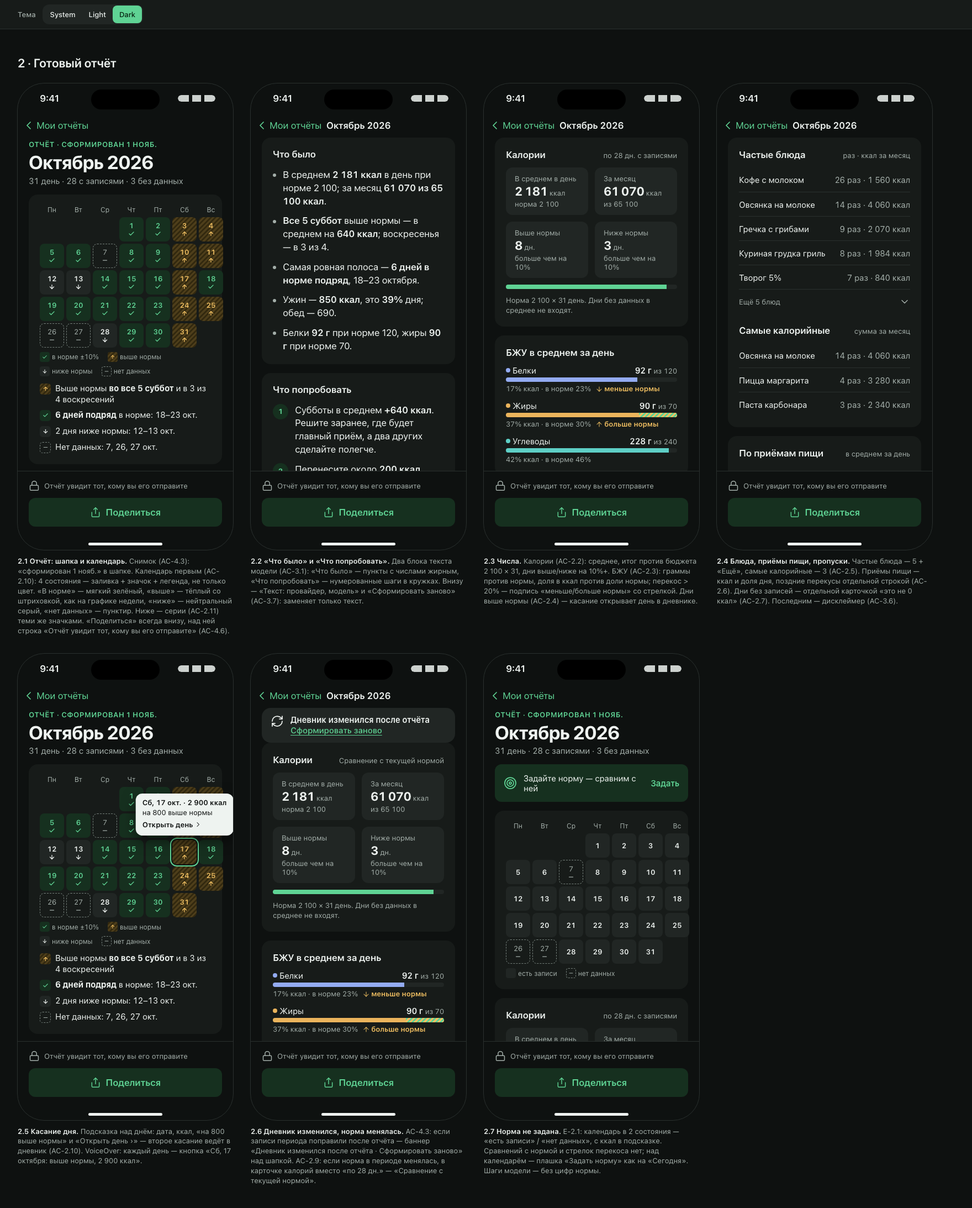
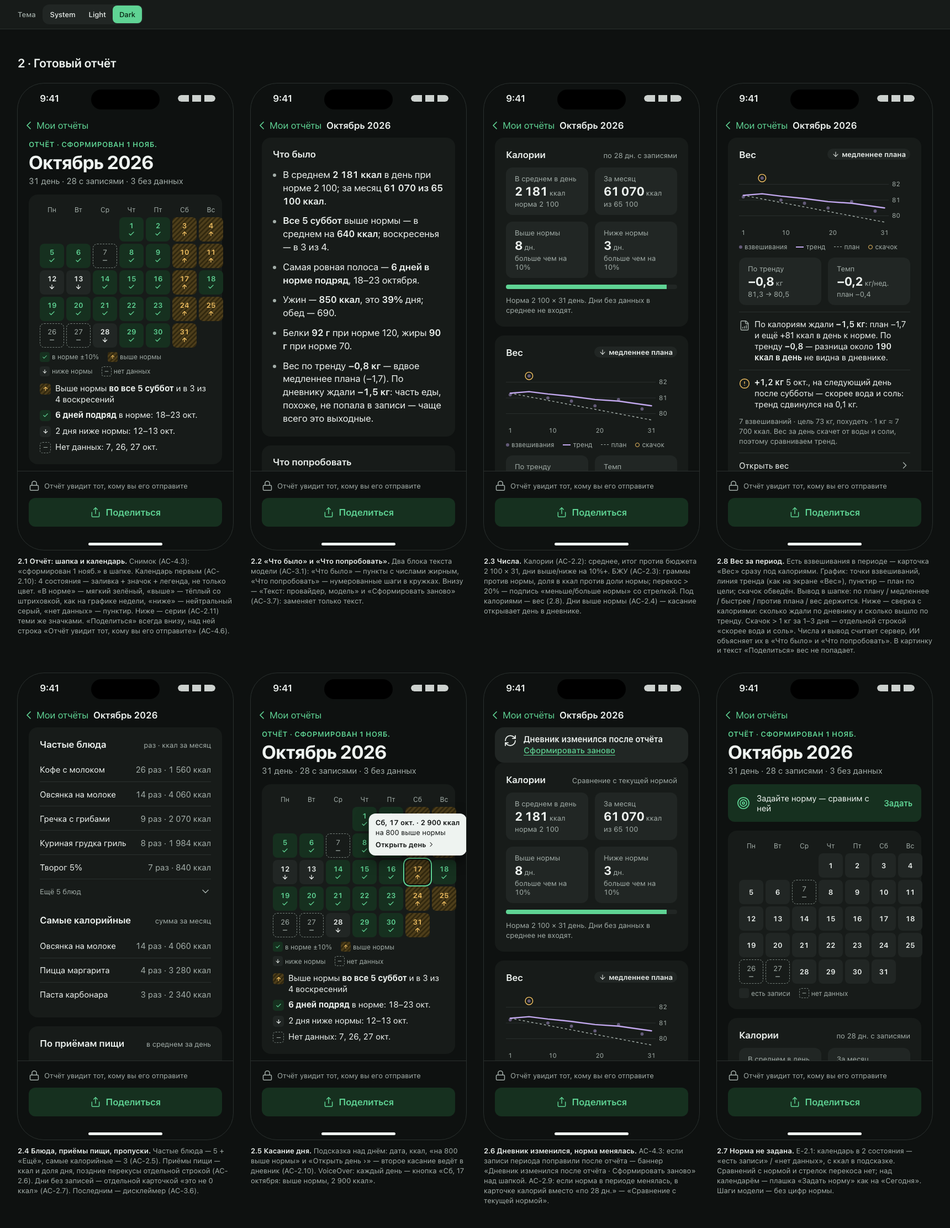
OCT-153 Weight in the period report: trend vs goal plan, calorie check, jump note, verdicts and empty states

diff --git a/docs/design/oct-153/prototype.html b/docs/design/oct-153/prototype.html
@@ -576,6 +576,33 @@ body{padding:var(--space-10) var(--space-8)}
 .share-row{display:flex;align-items:center;gap:var(--space-2);font-size:var(--text-footnote-size);color:var(--color-text-secondary)}
 .skew{display:inline-flex;align-items:center;gap:2px;font-size:var(--text-footnote-size);color:var(--color-warning);font-weight:600}
 .skew .icon{width:14px;height:14px}
+/* weight block (tokens from OCT-189 weight screen) */
+.verdict{display:inline-flex;align-items:center;gap:var(--space-1);font-size:var(--text-footnote-size);font-weight:600;padding:2px var(--space-2);border-radius:var(--radius-full);white-space:nowrap}
+.verdict .icon{width:14px;height:14px}
+.verdict.ok{background:var(--color-accent-soft);color:var(--color-accent)}
+.verdict.slow{background:var(--color-notice);color:var(--color-text)}
+.verdict.warn{background:var(--color-warning-soft);color:var(--color-warning)}
+.wchart{width:100%;height:auto;display:block;overflow:visible}
+.wchart .pt{fill:var(--color-weight);opacity:var(--weight-point-opacity)}
+.wchart .tr{fill:none;stroke:var(--color-weight);stroke-width:var(--weight-trend-width);stroke-linecap:round;stroke-linejoin:round}
+.wchart .plan{fill:none;stroke:var(--color-text-secondary);stroke-width:1.5;stroke-dasharray:4 4}
+.wchart .grid{stroke:var(--color-separator);stroke-width:1}
+.wchart .jump{fill:none;stroke:var(--color-warning);stroke-width:1.5}
+.wchart text{font-size:var(--text-caption-size);fill:var(--color-text-secondary);font-variant-numeric:tabular-nums}
+.wlegend{display:flex;flex-wrap:wrap;gap:var(--space-1) var(--space-4);font-size:var(--text-caption-size);color:var(--color-text-secondary)}
+.wlegend span{display:inline-flex;align-items:center;gap:var(--space-1)}
+.wlegend i{display:inline-block;width:14px;height:0;border-top:var(--weight-trend-width) solid var(--color-weight)}
+.wlegend i.dot{width:6px;height:6px;border:0;border-radius:50%;background:var(--color-weight);opacity:var(--weight-point-opacity)}
+.wlegend i.plan{border-top:1.5px dashed var(--color-text-secondary)}
+.wlegend i.jump{width:8px;height:8px;border:1.5px solid var(--color-warning);border-radius:50%}
+.wnote{display:flex;gap:var(--space-2);align-items:flex-start;font-size:var(--text-subhead-size);line-height:var(--text-subhead-lh);padding-top:var(--space-3);border-top:1px solid var(--color-separator)}
+.wnote .icon{flex:none;margin-top:2px;color:var(--color-text-secondary)}
+.wnote.jmp .icon{color:var(--color-warning)}
+.wnote b{font-weight:600;font-variant-numeric:tabular-nums}
+.sr-only{position:absolute;width:1px;height:1px;overflow:hidden;clip:rect(0 0 0 0);white-space:nowrap}
+.wstates{display:grid;grid-template-columns:repeat(auto-fill,minmax(300px,1fr));gap:var(--space-4);max-width:1000px}
+.wstates .card{background:var(--color-surface)}
+.wst{display:flex;flex-direction:column;gap:var(--space-2);min-width:0}
 .list-row{display:flex;justify-content:space-between;align-items:center;gap:var(--space-3);min-height:var(--tap-min);border-top:1px solid var(--color-separator);font-size:var(--text-subhead-size);font-variant-numeric:tabular-nums}
 .list-row:first-of-type{border-top:0}
 .list-row .r{display:flex;align-items:center;gap:var(--space-2);white-space:nowrap}
@@ -736,6 +763,11 @@ body{padding:var(--space-10) var(--space-8)}
 <section class="doc-section" id="report">
   <h2 class="doc-h2">2 · Готовый отчёт</h2>
   <div class="row" id="report-row"></div>
+</section>
+<section class="doc-section" id="weight">
+  <h2 class="doc-h2">2W · Вес: все выводы и пустые случаи</h2>
+  <p class="t-sub muted" style="max-width:70ch;margin-bottom:var(--space-4)">План — темп из цели профиля. По плану — 75–125% плана; медленнее — меньше 75% в ту же сторону; быстрее — больше 125% (больше 1% веса в неделю — предупреждение); против плана — тренд в обратную сторону больше 0,1 кг/нед. Цель «держать вес» — держится, если тренд в пределах ±0,5 кг за месяц. Тренд — с 3 взвешиваний на отрезке от 7 дней.</p>
+  <div class="wstates" id="weight-row"></div>
 </section>
 <section class="doc-section" id="list">
   <h2 class="doc-h2">3 · «Мои отчёты»</h2>
@@ -951,8 +983,8 @@ const head = (kicker, title, meta) => `<div class="rep-head">${kicker?`<span cla
 const card = (inner, label='') => `<section class="card"${label?` aria-label="${label}"`:''}>${inner}</section>`;
 
 /* AI block — before generation */
-const SENT = `<div class="sent">${I('lock','sm')}<span>Провайдеру уйдут итоги по дням и названия частых блюд — без фото, имени и email.</span></div>`;
-const genCard = ({profile=true, note=''}={}) => `<section class="ai-card" aria-label="Разбор от ИИ"><div class="ai-h">${I('spark')}Что было и что попробовать</div><p class="t-sub muted">ИИ напишет короткий разбор и 2–5 шагов на следующий период. Числа считает приложение — модель их не меняет.</p>${SENT}<div class="gen-row" role="switch" aria-checked="${profile}"><span class="grow">Учитывать профиль <span class="muted t-sub">(возраст, пол, рост, вес)</span></span><span class="switch ${profile?'on':''}"></span></div>${note}</section>`;
+const SENT = `<div class="sent">${I('lock','sm')}<span>Провайдеру уйдут итоги по дням, названия частых блюд и вес по тренду — без фото, имени и email.</span></div>`;
+const genCard = ({profile=true, note=''}={}) => `<section class="ai-card" aria-label="Разбор от ИИ"><div class="ai-h">${I('spark')}Что было и что попробовать</div><p class="t-sub muted">ИИ напишет короткий разбор и 2–5 шагов на следующий период. Числа считает приложение — модель их не меняет.</p>${SENT}<div class="gen-row" role="switch" aria-checked="${profile}"><span class="grow">Учитывать профиль <span class="muted t-sub">(возраст, пол, рост, вес и цель)</span></span><span class="switch ${profile?'on':''}"></span></div>${note}</section>`;
 const genBusy = `<section class="ai-card" aria-label="Разбор от ИИ" aria-busy="true"><div class="gen-progress" role="status"><span class="spinner"></span>Пишем разбор…</div><div class="skel-lines"><div class="skel" style="width:92%"></div><div class="skel" style="width:78%"></div><div class="skel" style="width:85%"></div><div class="skel" style="width:60%"></div></div><p class="t-foot muted">Обычно до минуты. Можно уйти с экрана — отчёт появится в «Моих отчётах».</p></section>`;
 const genMsg = (ic, cls, title, body) => `<section class="ai-card" aria-label="Разбор от ИИ"><div class="ai-h">${I('spark')}Что было и что попробовать</div><div class="banner ${cls}" role="status">${I(ic)}<div><div class="b-title">${title}</div>${body}</div></div></section>`;
 
@@ -962,12 +994,14 @@ const WHAT = `<section class="ai-card" aria-label="Что было"><div class="
 <li><span><b>Все 5 суббот</b> выше нормы — в среднем на <b>640 ккал</b>; воскресенья — в 3 из 4.</span></li>
 <li><span>Самая ровная полоса — <b>6 дней в норме подряд</b>, 18–23 октября.</span></li>
 <li><span>Ужин — <b>850 ккал</b>, это <b>39%</b> дня; обед — 690.</span></li>
-<li><span>Белки <b>92 г</b> при норме 120, жиры <b>90 г</b> при норме 70.</span></li></ul></section>`;
+<li><span>Белки <b>92 г</b> при норме 120, жиры <b>90 г</b> при норме 70.</span></li>
+<li><span>Вес по тренду <b>−0,8 кг</b> — вдвое медленнее плана (−1,7). По дневнику ждали <b>−1,5 кг</b>: часть еды, похоже, не попала в записи — чаще всего это выходные.</span></li></ul></section>`;
 const TRY = (by=true) => `<section class="ai-card" aria-label="Что попробовать"><div class="ai-h">Что попробовать</div><ol class="ai-steps">
 <li><span>Субботы в среднем <b>+640 ккал</b>. Решите заранее, где будет главный приём, а два других сделайте полегче.</span></li>
 <li><span>Перенесите около <b>200 ккал</b> ужина в обед — например, гарнир: ужин станет ~650 ккал.</span></li>
 <li><span>Добавьте <b>25–30 г белка</b> в день: творог к завтраку или куриная грудка к обеду.</span></li>
-<li><span>Жиры выше нормы на <b>20 г</b> в день — посмотрите соусы и масло в частых блюдах.</span></li></ol>
+<li><span>Жиры выше нормы на <b>20 г</b> в день — посмотрите соусы и масло в частых блюдах.</span></li>
+<li><span>В субботу и воскресенье записывайте всё, включая перекусы, и взвешивайтесь <b>2–3 раза в неделю</b> утром — тогда станет видно, где теряется разница.</span></li></ol>
 ${by?`<div class="ai-by"><span>Текст: Ollama, llama3.1 · 1 нояб.</span><span class="act" role="button">${I('refresh','sm')}Сформировать заново</span></div>`:''}</section>`;
 
 /* numbers (server) */
@@ -982,6 +1016,41 @@ const frow2 = (n, c, k) => `<div class="list-row"><span>${n}</span><span class="
 const FREQ = card(`<div class="sum-line"><span class="t-headline">Частые блюда</span><span class="avg-note">раз · ккал за месяц</span></div><div>${frow2('Кофе с молоком',26,1560)}${frow2('Овсянка на молоке',14,4060)}${frow2('Гречка с грибами',9,2070)}${frow2('Куриная грудка гриль',8,1984)}${frow2('Творог 5%',7,840)}<div class="unch" role="button" aria-expanded="false">Ещё 5 блюд${I('chev-d','sm')}</div></div><div class="sum-line" style="margin-top:var(--space-2)"><span class="t-headline">Самые калорийные</span><span class="avg-note">сумма за месяц</span></div><div>${frow2('Овсянка на молоке',14,4060)}${frow2('Пицца маргарита',4,3280)}${frow2('Паста карбонара',3,2340)}</div>`,'Частые блюда');
 const MEALS = card(`<div class="sum-line"><span class="t-headline">По приёмам пищи</span><span class="avg-note">в среднем за день</span></div><div>${[['Завтрак',430,20],['Обед',690,32],['Ужин',850,39],['Перекус',211,10]].map(([n,k,p])=>`<div class="list-row"><span>${n}</span><span class="num"><b>${k}</b> <span class="muted">ккал · ${p}%</span></span></div>`).join('')}</div><span class="t-foot muted">Больше всего ккал — с 19 до 22 ч. Поздние перекусы (00:00–03:59): 4 раза, в среднем 320 ккал.</span>`,'По приёмам пищи');
 const GAPS = card(`<div class="sum-line"><span class="t-headline">Нет данных: 3 дн.</span></div><span class="t-sub muted">7, 26, 27 окт. — без записей. Это не 0 ккал: в средние эти дни не входят.</span>`,'Нет данных');
+/* weight (server): trend = EMA from OCT-209; plan = pace of the goal (OCT-28 norm agent) */
+const WPTS = [[1,81.2],[5,82.4],[9,81.0],[14,80.8],[19,80.5],[24,80.9],[29,80.3]];
+const WTR = [[1,81.3],[5,81.4],[9,81.25],[14,81.1],[19,80.9],[24,80.8],[31,80.5]];
+const wchart = ({pts=WPTS, tr=WTR, plan=[81.3,79.6], jump=5, lo=79.4, hi=82.8, days=31}={}) => {
+  const W=320, H=128, R=40, x=d=>8+(d-1)*(W-R-16)/(days-1), y=v=>8+(hi-v)*(H-28)/(hi-lo);
+  const ticks=[82,81,80].filter(v=>v>lo&&v<hi);
+  const grid=ticks.map(v=>`<line class="grid" x1="0" x2="${W-R}" y1="${y(v)}" y2="${y(v)}"/><text x="${W-R+6}" y="${y(v)+4}">${String(v)}</text>`).join('');
+  const dl=[1,10,20,days].map(d=>`<text x="${x(d)}" y="${H-2}" text-anchor="middle">${d}</text>`).join('');
+  const pl=plan?`<line class="plan" x1="${x(1)}" y1="${y(plan[0])}" x2="${x(days)}" y2="${y(plan[1])}"/>`:'';
+  const t=tr?`<polyline class="tr" points="${tr.map(([d,v])=>`${x(d)},${y(v)}`).join(' ')}"/>`:'';
+  const p=pts.map(([d,v])=>`<circle class="pt" cx="${x(d)}" cy="${y(v)}" r="3"/>`).join('');
+  const j=jump?(()=>{const [d,v]=pts.find(q=>q[0]===jump);return `<circle class="jump" cx="${x(d)}" cy="${y(v)}" r="7"/>`;})():'';
+  return `<svg class="wchart" viewBox="0 0 ${W} ${H}" aria-hidden="true">${grid}${pl}${t}${p}${j}${dl}</svg>`;
+};
+const VERD = {ok:['ok','check','по плану'], slow:['slow','down','медленнее плана'], fast:['warn','alert','быстрее плана'], against:['warn','up','против плана'], hold:['ok','check','вес держится']};
+const verdict = k => { const [c,i,t]=VERD[k]; return `<span class="verdict ${c}">${I(i)}${t}</span>`; };
+const wleg = (plan=true, jump=true) => `<div class="wlegend"><span><i class="dot"></i>взвешивания</span><span><i></i>тренд</span>${plan?'<span><i class="plan"></i>план</span>':''}${jump?'<span><i class="jump"></i>скачок</span>':''}</div>`;
+const WEIGHT = card(`<div class="sum-line"><span class="t-headline">Вес</span>${verdict('slow')}</div>
+<p class="sr-only">График веса за октябрь: 7 взвешиваний, по тренду с 81,3 до 80,5 кг, минус 0,8. План минус 1,7 кг. Медленнее плана.</p>
+${wchart()}${wleg()}
+<div class="stat-grid">${stat('По тренду','−0,8','кг','81,3 → 80,5')}${stat('Темп','−0,2','кг/нед.','план −0,4')}</div>
+<div class="wnote">${I('report','sm')}<span>По калориям ждали <b>−1,5 кг</b>: план −1,7 и ещё +81 ккал в день к норме. По тренду <b>−0,8</b> — разница около <b>190 ккал в день</b> не видна в дневнике.</span></div>
+<div class="wnote jmp">${I('alert','sm')}<span><b>+1,2 кг</b> 5 окт., на следующий день после субботы — скорее вода и соль: тренд сдвинулся на 0,1 кг.</span></div>
+<span class="t-foot muted">7 взвешиваний · цель 73 кг, похудеть · 1 кг ≈ 7 700 ккал. Вес за день скачет от воды и соли, поэтому сравниваем тренд.</span>
+<div class="list-row" role="button"><span>Открыть вес</span><span class="r">${I('chev-r','sm')}</span></div>`,'Вес');
+const wstate = (title, k, body, extra='') => card(`<div class="sum-line"><span class="t-headline">Вес</span>${k?verdict(k):''}</div>${body}${extra}`,title);
+const WSTATES = [
+  ['По плану','ok',`${wchart({pts:[[1,81.2],[8,80.6],[15,80.4],[22,79.9],[29,79.6]],tr:[[1,81.3],[8,80.9],[15,80.5],[22,80.1],[31,79.6]],jump:0,lo:79,hi:82})}<div class="stat-grid">${stat('По тренду','−1,7','кг','81,3 → 79,6')}${stat('Темп','−0,4','кг/нед.','план −0,4')}</div><span class="t-foot muted">«По плану» — темп от 75 до 125% плана.</span>`],
+  ['Быстрее плана','fast',`<div class="stat-grid">${stat('По тренду','−4,1','кг','81,3 → 77,2')}${stat('Темп','−0,9','кг/нед.','план −0,4')}</div><div class="wnote jmp">${I('alert','sm')}<span>Больше 1% веса в неделю — вместе с жиром уходят мышцы. Проверьте, все ли приёмы пищи в дневнике.</span></div>`],
+  ['Против плана','against',`<div class="stat-grid">${stat('По тренду','+0,9','кг','81,3 → 82,2')}${stat('Темп','+0,2','кг/нед.','план −0,4')}</div><div class="wnote">${I('report','sm')}<span>В среднем <b>+260 ккал</b> в день к норме — это около <b>+1,0 кг</b> за месяц, вес идёт за калориями.</span></div>`],
+  ['Цель — держать вес','hold',`<div class="stat-grid">${stat('По тренду','+0,2','кг','74,1 → 74,3')}${stat('Темп','+0,05','кг/нед.','держать ±0,1')}</div><span class="t-foot muted">«Держится» — тренд в пределах ±0,5 кг за месяц.</span>`],
+  ['Цель не задана','',`<div class="stat-grid">${stat('По тренду','−0,8','кг','81,3 → 80,5')}${stat('Темп','−0,2','кг/нед.')}</div><div class="invite">${I('target')}<span>Задайте цель — сравним с планом</span><span class="go">Задать</span></div>`],
+  ['Мало взвешиваний','',`<p class="t-sub">2 взвешивания: 81,2 кг 3 окт. и 80,6 кг 24 окт.</p><span class="t-foot muted">Тренд и вывод — с 3 взвешиваний, между первым и последним хотя бы 7 дней.</span>`,`<button class="btn btn-tonal btn-sm">${I('plus','sm')}Записать вес</button>`],
+  ['Нет взвешиваний','',`<p class="t-sub muted">За октябрь взвешиваний нет — без них не понять, работает ли план.</p>`,`<button class="btn btn-tonal btn-sm">${I('plus','sm')}Записать вес</button>`],
+].map(([t,k,b,e=''])=>`<figure class="wst">${wstate(t,k,b,e)}<figcaption class="t-foot muted"><b>${t}.</b></figcaption></figure>`).join('');
 const DISC = `<p class="disclaimer">${I('alert','sm')}Не медицинский совет. Нормы ориентировочные.</p>`;
 
 /* sticky bottom bars */
@@ -998,7 +1067,8 @@ function report({part=0, top='', extra='', kcalNote='', sel=-1, tip='', nav=null
   const parts = [
     `${head('Отчёт · сформирован 1 нояб.','Октябрь 2026','31 день · 28 с записями · 3 без данных')}<div class="pad stack">${card(calendar(OCT,{sel,tip})+SERIES_OCT,'Календарь периода')}${WHAT}</div>`,
     `<div class="pad stack">${WHAT}${TRY()}</div>`,
-    `<div class="pad stack">${KCAL(kcalNote)}${MACROS}${ABOVE}</div>`,
+    `<div class="pad stack">${KCAL(kcalNote)}${WEIGHT}${MACROS}${ABOVE}</div>`,
+    `<div class="pad stack">${WEIGHT}</div>`,
     `<div class="pad stack">${FREQ}${MEALS}${GAPS}${DISC}</div>`,
   ];
   return `${navbar}${top}<div class="content rep">${parts[part]}</div>${barShare}${extra}`;
@@ -1049,12 +1119,15 @@ const OCT_PLAIN = calendar(OCT,{norm:0});
 document.getElementById('report-row').innerHTML = [
   frame('2.1','Отчёт: шапка и календарь','Снимок (AC-4.3): «сформирован 1 нояб.» в шапке. Календарь первым (AC-2.10): 4 состояния — заливка + значок + легенда, не только цвет. «В норме» — мягкий зелёный, «выше» — тёплый со штриховкой, как на графике недели, «ниже» — нейтральный серый, «нет данных» — пунктир. Ниже — серии (AC-2.11) теми же значками. «Поделиться» всегда внизу, над ней строка «Отчёт увидит тот, кому вы его отправите» (AC-4.6).', report()),
   frame('2.2','«Что было» и «Что попробовать»','Два блока текста модели (AC-3.1): «Что было» — пункты с числами жирным, «Что попробовать» — нумерованные шаги в кружках. Внизу — «Текст: провайдер, модель» и «Сформировать заново» (AC-3.7): заменяет только текст.', report({part:1})),
-  frame('2.3','Числа','Калории (AC-2.2): среднее, итог против бюджета 2 100 × 31, дни выше/ниже на 10%+. БЖУ (AC-2.3): граммы против нормы, доля в ккал против доли нормы; перекос > 20% — подпись «меньше/больше нормы» со стрелкой. Дни выше нормы (AC-2.4) — касание открывает день в дневнике.', report({part:2})),
-  frame('2.4','Блюда, приёмы пищи, пропуски','Частые блюда — 5 + «Ещё», самые калорийные — 3 (AC-2.5). Приёмы пищи — ккал и доля дня, поздние перекусы отдельной строкой (AC-2.6). Дни без записей — отдельной карточкой «это не 0 ккал» (AC-2.7). Последним — дисклеймер (AC-3.6).', report({part:3})),
+  frame('2.3','Числа','Калории (AC-2.2): среднее, итог против бюджета 2 100 × 31, дни выше/ниже на 10%+. БЖУ (AC-2.3): граммы против нормы, доля в ккал против доли нормы; перекос > 20% — подпись «меньше/больше нормы» со стрелкой. Под калориями — вес (2.8). Дни выше нормы (AC-2.4) — касание открывает день в дневнике.', report({part:2})),
+  frame('2.8','Вес за период','Есть взвешивания в периоде — карточка «Вес» сразу под калориями. График: точки взвешиваний, линия тренда (как на экране «Вес»), пунктир — план по цели; скачок обведён. Вывод в шапке: по плану / медленнее / быстрее / против плана / вес держится. Ниже — сверка с калориями: сколько ждали по дневнику и сколько вышло по тренду. Скачок > 1 кг за 1–3 дня — отдельной строкой «скорее вода и соль». Числа и вывод считает сервер, ИИ объясняет их в «Что было» и «Что попробовать». В картинку и текст «Поделиться» вес не попадает.', report({part:3})),
+  frame('2.4','Блюда, приёмы пищи, пропуски','Частые блюда — 5 + «Ещё», самые калорийные — 3 (AC-2.5). Приёмы пищи — ккал и доля дня, поздние перекусы отдельной строкой (AC-2.6). Дни без записей — отдельной карточкой «это не 0 ккал» (AC-2.7). Последним — дисклеймер (AC-3.6).', report({part:4})),
   frame('2.5','Касание дня','Подсказка над днём: дата, ккал, «на 800 выше нормы» и «Открыть день ›» — второе касание ведёт в дневник (AC-2.10). VoiceOver: каждый день — кнопка «Сб, 17 октября: выше нормы, 2 900 ккал».', report({sel:16, tip:dayTip})),
   frame('2.6','Дневник изменился, норма менялась','AC-4.3: если записи периода поправили после отчёта — баннер «Дневник изменился после отчёта · Сформировать заново» над шапкой. AC-2.9: если норма в периоде менялась, в карточке калорий вместо «по 28 дн.» — «Сравнение с текущей нормой».', report({part:2, top:staleBanner, kcalNote:'Сравнение с текущей нормой'})),
   frame('2.7','Норма не задана','E-2.1: календарь в 2 состояния — «есть записи» / «нет данных», с ккал в подсказке. Сравнений с нормой и стрелок перекоса нет; над календарём — плашка «Задать норму» как на «Сегодня». Шаги модели — без цифр нормы.', `${repNav('', back('Мои отчёты'))}<div class="content rep">${head('Отчёт · сформирован 1 нояб.','Октябрь 2026','31 день · 28 с записями · 3 без данных')}<div class="pad stack"><div class="invite">${I('target')}<span>Задайте норму — сравним с ней</span><span class="go">Задать</span></div>${card(OCT_PLAIN,'Календарь периода')}${card(`<div class="sum-line"><span class="t-headline">Калории</span><span class="avg-note">по 28 дн. с записями</span></div><div class="stat-grid">${stat('В среднем в день','2 181','ккал')}${stat('За месяц','61 070','ккал')}</div>`)}</div></div>${barShare}`),
 ].join('');
+
+document.getElementById('weight-row').innerHTML = WSTATES;
 
 /* 3 · my reports */
 const repCell = (t, sub, {busy=false, badge=''}={}) => `<div class="cell ic rep" role="button"><span class="lead-ic round">${busy?'<span class="spinner" style="width:16px;height:16px"></span>':I('report','sm')}</span><span class="main"><span>${t}</span><span class="sub">${sub}</span>${badge?`<span>${badge}</span>`:''}</span>${I('chev-r','sm').replace('class="icon','class="icon chev')}</div>`;

diff --git a/docs/design/oct-13/tokens.css b/docs/design/oct-13/tokens.css
@@ -49,6 +49,19 @@
   --switch-height: 31px;
   --chat-avatar-size: 28px;     /* OCT-22: agent mark in chat, step numbers in «Как считается» */
   --chat-bubble-max-width: 80%; /* OCT-22: user message width in chat */
+  --dish-illo-size: 40px;       /* OCT-33: dish illustration in edit rows (hit area stays 44) */
+  --illo-pick-size: 64px;       /* OCT-33: tile in the illustration picker grid */
+  --water-figure-size: 120px;   /* OCT-147: water mascot / bar column on the Water card (phone) */
+  --drink-tile-size: 56px;      /* OCT-147: round drink tile in the drinks row (hit area = tile + label) */
+  --duration-fill: 1200ms;      /* OCT-147: water level rise after a tap (≤ 1.5 s, product AC-2.2) */
+  --dose-mark-size: 28px;       /* OCT-144: intake ring / check on a supplement row (hit area = whole row) */
+  --weight-spark-width: 128px;  /* OCT-189: mini chart on the Weight card (Today) */
+  --weight-spark-height: 56px;
+  --weight-ruler-height: 64px;  /* OCT-189: swipe ruler in the weigh-in sheet, 0.1 kg = 1 tick */
+  --weight-tick-gap: 10px;      /* OCT-189: distance between 0.1 kg ticks */
+  --weight-point-r: 3px;        /* OCT-189: weigh-in dot on the chart (tap area is the nearest-point column) */
+  --weight-trend-width: 2.5px;  /* OCT-189: trend line stroke */
+  --weight-point-opacity: 0.45; /* OCT-189: raw weigh-ins are paler than the trend (AC-9.22) */
   --icon-size: 24px;  --icon-size-sm: 20px;  --icon-stroke: 1.75;
   --content-max-width: 560px;   /* phone-like column: auth, settings, tablet/narrow window */
   /* Desktop (window ≥ 1024px; CSS vars can't be used in @media — keep 1024 in one place in code):
@@ -103,6 +116,19 @@
   --color-protein: #4766C4;
   --color-fat: #B36F00;
   --color-carbs: #16847E;
+  /* OCT-147: water (graphics & text, ≥ 4.5:1 on surface) */
+  --color-water: #1F78C8;
+  --color-water-soft: #E8F2FB;
+  /* OCT-189: weight diary — one neutral hue, never green/red by direction (AC-9.17) */
+  --color-weight: #6B4FA0;
+  --color-weight-soft: #F1ECF8;
+
+  /* OCT-33: dish illustrations (flat, decorative). Shown on a round "plate" tile so they never pass for a photo */
+  --illo-tile: #F6F0E4;   /* round substrate behind every illustration */
+  --illo-plate: #C9D3CF;  --illo-white: #FFFFFF;  --illo-shade: rgb(60 40 20 / 0.12);
+  --illo-red: #E05A47;    --illo-orange: #F09A3A; --illo-yellow: #F6C945; --illo-pink: #F2A193;
+  --illo-green: #6DB563;  --illo-leaf: #2F8A4E;   --illo-blue: #7DB3E3;
+  --illo-tan: #DDA15E;    --illo-brown: #9A5B32;  --illo-cocoa: #5C3A28;
 
   --shadow-sheet: 0 -4px 24px rgb(24 33 29 / 0.06);
   --shadow-toast: 0 6px 20px rgb(24 33 29 / 0.10);
@@ -141,6 +167,15 @@
     --color-protein: #93ABF2;
     --color-fat: #EBB45C;
     --color-carbs: #5ECFC6;
+    --color-water: #6DB6F2;
+    --color-water-soft: #13263A;
+    --color-weight: #C2A8EE;
+    --color-weight-soft: #2A2238;
+    --illo-tile: #2B2721;
+    --illo-plate: #4C524F;  --illo-white: #EEE8DC;  --illo-shade: rgb(0 0 0 / 0.28);
+    --illo-red: #EE7564;    --illo-orange: #EFA654; --illo-yellow: #EECB62; --illo-pink: #E39B8F;
+    --illo-green: #7CC472;  --illo-leaf: #4FAA6C;   --illo-blue: #86B9E4;
+    --illo-tan: #D29E66;    --illo-brown: #B27A52;  --illo-cocoa: #7A5440;
     --shadow-sheet: 0 -8px 32px rgb(0 0 0 / 0.5);
     --shadow-toast: 0 8px 24px rgb(0 0 0 / 0.5);
     --shadow-camera: 0 6px 16px rgb(0 0 0 / 0.5);
@@ -174,6 +209,15 @@
   --color-protein: #93ABF2;
   --color-fat: #EBB45C;
   --color-carbs: #5ECFC6;
+  --color-water: #6DB6F2;
+  --color-water-soft: #13263A;
+  --color-weight: #C2A8EE;
+  --color-weight-soft: #2A2238;
+  --illo-tile: #2B2721;
+  --illo-plate: #4C524F;  --illo-white: #EEE8DC;  --illo-shade: rgb(0 0 0 / 0.28);
+  --illo-red: #EE7564;  --illo-orange: #EFA654; --illo-yellow: #EECB62; --illo-pink: #E39B8F;
+  --illo-green: #7CC472;  --illo-leaf: #4FAA6C;   --illo-blue: #86B9E4;
+  --illo-tan: #D29E66;  --illo-brown: #B27A52;  --illo-cocoa: #7A5440;
   --shadow-sheet: 0 -8px 32px rgb(0 0 0 / 0.5);
   --shadow-toast: 0 8px 24px rgb(0 0 0 / 0.5);
   --shadow-camera: 0 6px 16px rgb(0 0 0 / 0.5);
@@ -185,5 +229,5 @@
 :root[data-theme="light"] { color-scheme: light; }
 
 @media (prefers-reduced-motion: reduce) {
-  :root { --duration-fast: 0ms; --duration-base: 0ms; --duration-slow: 0ms; --press-scale: 1; }
+  :root { --duration-fast: 0ms; --duration-base: 0ms; --duration-slow: 0ms; --press-scale: 1; --duration-fill: 0ms; }
 }
